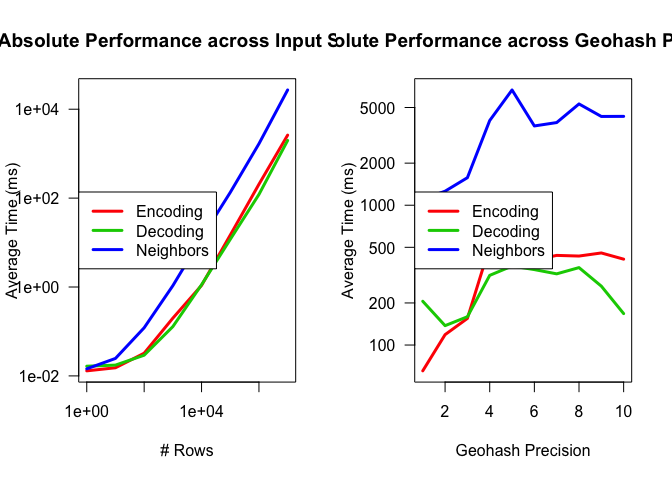
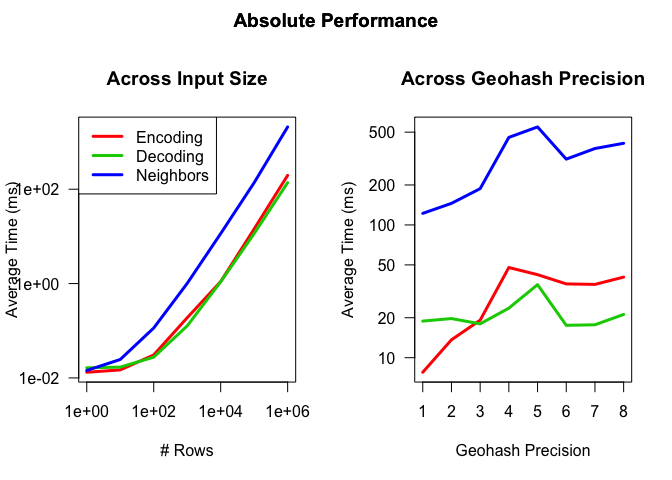
handle caching to allow for tinkering with plot more cheaply

diff --git a/timing_comparison.md b/timing_comparison.md
@@ -13,8 +13,8 @@ Tools and setup
 library(microbenchmark)
 library(data.table)
 
-nn = 10^(0:7)
-kk = 1:10
+nn = 10^(0:6)
+kk = 1:8
 timings = CJ(n_rows = nn, precision = kk)
 setkey(timings)
 ```
@@ -95,6 +95,7 @@ Absolute timing
 ---------------
 
 ``` r
+par(oma = c(0, 0, 2, 0))
 timings[ , {
   by = 'n_rows'
   xlab_map = c(n_rows = '# Rows', precision = 'Geohash Precision')
@@ -120,12 +121,13 @@ timings[ , {
 }]
 ```
 
-    ## Error in `[.data.table`(.SD, , lapply(.SD, mean), keyby = by, .SDcols = rel_cols): Some items of .SDcols are not column names (or are NA)
+![](timing-absolute_results-1.png)
 
 Comparison against `geohash`: Relative timing
 ---------------------------------------------
 
 ``` r
+par(oma = c(0, 0, 2, 0))
 timings[ , {
   by = 'n_rows'
   xlab_map = c(n_rows = '# Rows', precision = 'Geohash Precision')
@@ -152,4 +154,4 @@ timings[ , {
 }]
 ```
 
-    ## Error in `[.data.table`(.SD, , lapply(.SD, mean), keyby = by, .SDcols = rel_cols): Some items of .SDcols are not column names (or are NA)
+![](timing-relative_results-1.png)
